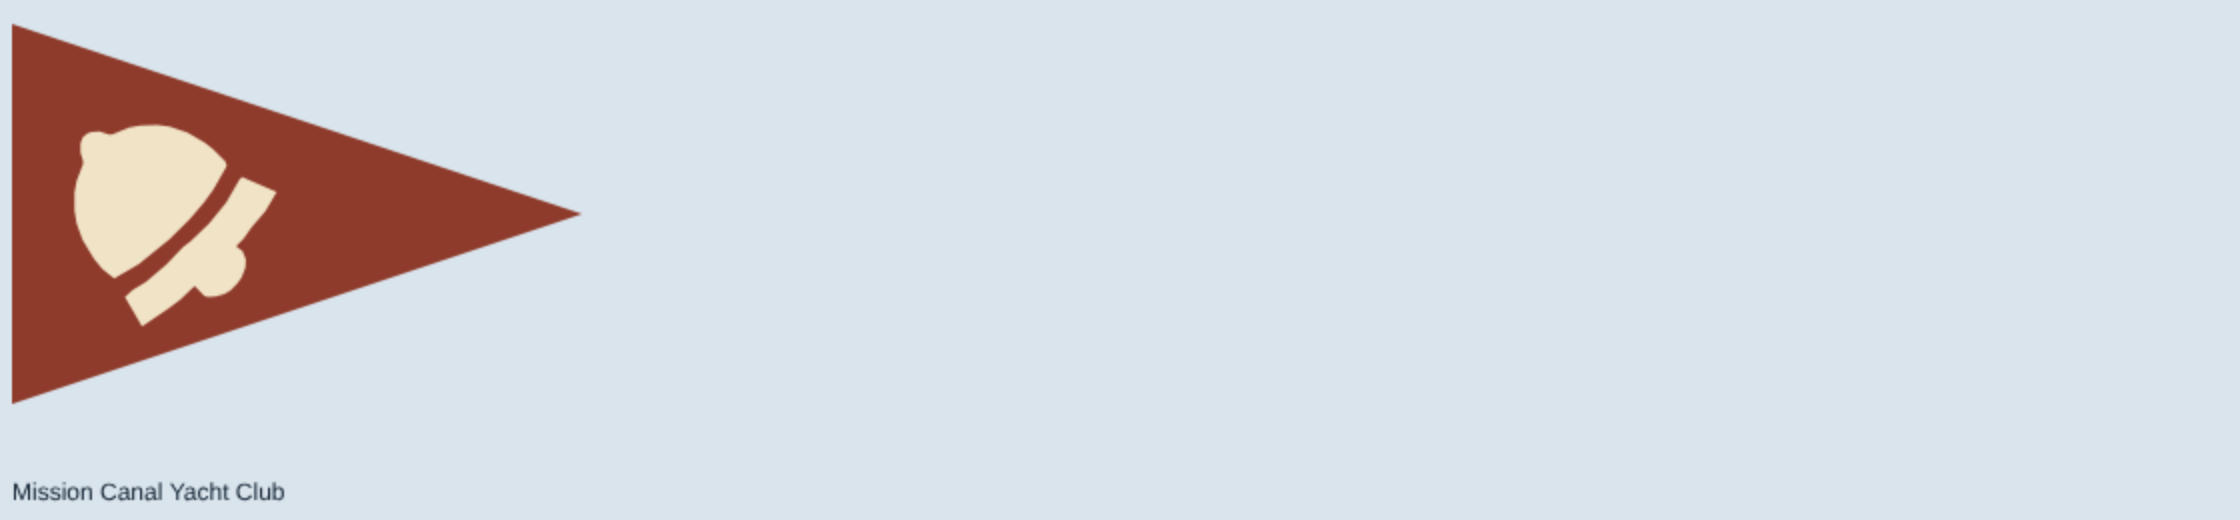
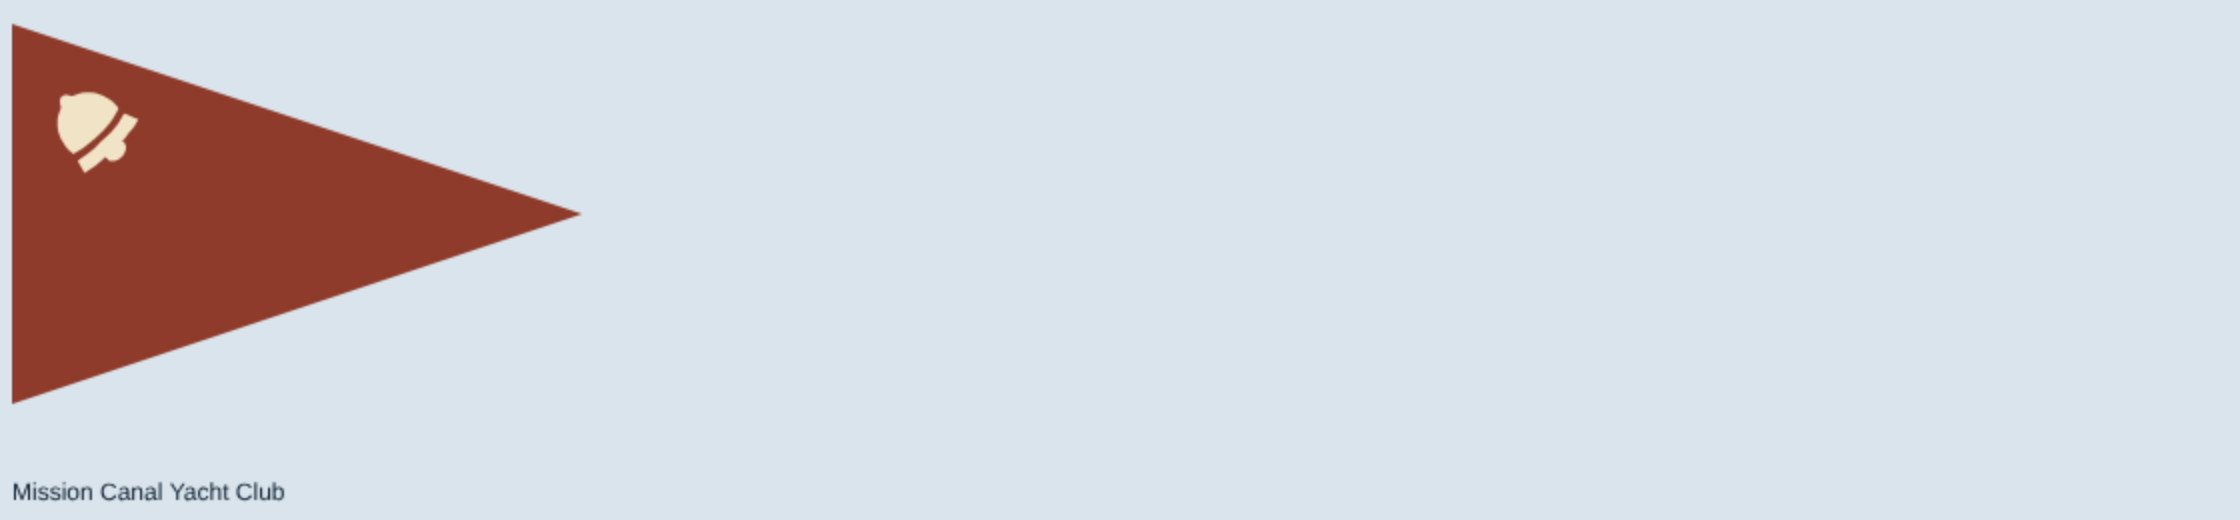
Burgees: Mission Canal bell 60% smaller, in the top-left corner
Claude-Session: https://claude.ai/code/session_012Uu5QjYRsEpBxuz7xgHWhs

Changed region(s): [[0.0, 0.1538, 0.125, 0.6154]]

diff --git a/src/render/burgeeArt.ts b/src/render/burgeeArt.ts
@@ -135,7 +135,7 @@ export const PARODY_BURGEES: Burgee[] = [
   { id: 'myc', shape: 'pennant', ratio: 1.5, // established: blue, mountain green, a white cap
     draw: (g, W, H) => { fill(g, W, H, '#2a62b8'); poly(g, '#2f7d4a', [W * 0.05, H * 0.7], [W * 0.2, H * 0.28], [W * 0.35, H * 0.7]); poly(g, WHITE, [W * 0.155, H * 0.42], [W * 0.2, H * 0.28], [W * 0.245, H * 0.42]); } },
   { id: 'sryc', shape: 'pennant', ratio: 1.5, // Mission Canal: one mission bell (the owner's drawing) at the top-left, its axis toward the corner, cream on mission-tile red, a plain field
-    draw: (g, W, H) => { fill(g, W, H, '#8f3b2b'); bell(g, H * 0.39, H * 0.49, H * 0.56, -Math.PI / 4, '#f1e3c6'); } },
+    draw: (g, W, H) => { fill(g, W, H, '#8f3b2b'); bell(g, H * 0.21, H * 0.27, H * 0.224, -Math.PI / 4, '#f1e3c6'); } },
   { id: 'ryc', shape: 'pennant', ratio: 1.5, // DIY: brick red, black and white; one kiln chimney
     draw: (g, W, H) => { fill(g, W, H, '#b03a2a'); rect(g, WHITE, W * 0.5, 0, W * 0.14, H); rect(g, BLACK, W * 0.11, H * 0.34, W * 0.1, H * 0.34); poly(g, BLACK, [W * 0.09, H * 0.34], [W * 0.23, H * 0.34], [W * 0.21, H * 0.27], [W * 0.11, H * 0.27]); } },
   { id: 'byc', shape: 'pennant', ratio: 1.667, // Campanile YC (Berkeley, 1929), on the owner's template: five equal stripes to the point, Berkeley blue and California gold; no charge (the name does the work)
